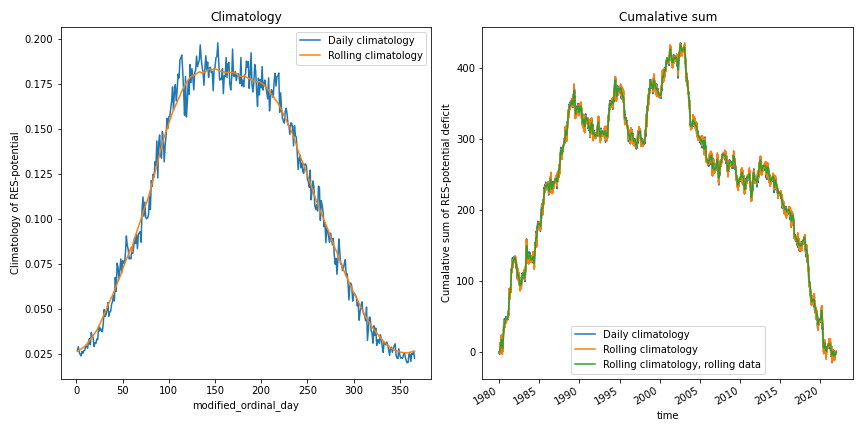
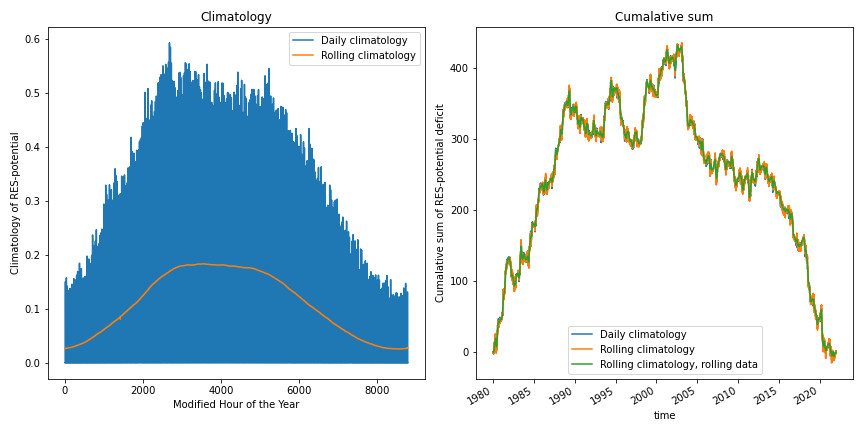
Added PV climatology and functional functions

diff --git a/src/1_Initial_CumSumRESdeficit_SPV.py b/src/1_Initial_CumSumRESdeficit_SPV.py
@@ -62,7 +62,7 @@ ds_clim = ds.groupby(modified_ordinal_day).mean('time')
 # for not leap years we get the information
 not_leap_year = xr.DataArray(~ds.indexes['time'].is_leap_year, coords=ds.coords)
 march_or_later = ds.time.dt.month >= 3
-ordinal_day = ds.time.dt.dayofyear * 24 + ds.time.dt.hour
+ordinal_day = ds.time.dt.dayofyear * 24 + ds.time.dt.hour - 24
 modified_ordinal_day = ordinal_day + (not_leap_year & march_or_later)
 modified_ordinal_day = modified_ordinal_day.rename('Modified Hour of the Year')
 
